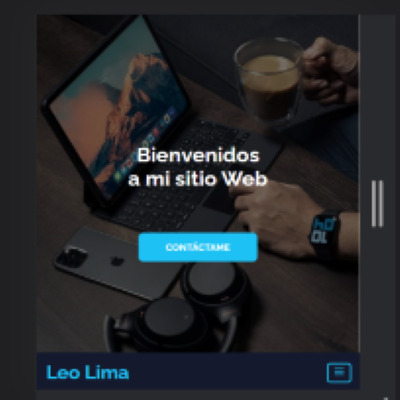
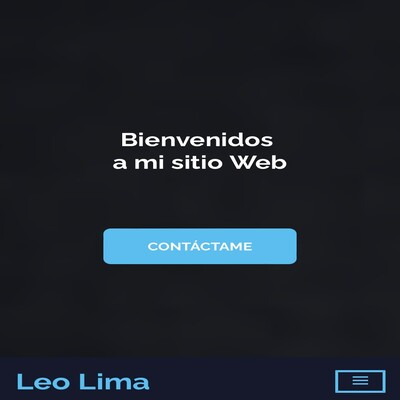
update-9/01/2023

diff --git a/portafolio-cv/index.html b/portafolio-cv/index.html
@@ -54,11 +54,11 @@
     <article class="text-lg-right">
         <aside class="text-center text-lg-right">
             <h1>Leonel Lima</h1>
-            <h5>Diseño paginas <i>web</i></h5>
+            <h5>Diseño páginas <i>web</i></h5>
         </aside>
-        <p>Experiencia en diseño de sitios <i>web,</i>  a trávez de la progrmación con HTML y CSS puro.</p>
-        <p>Orientación a el diseño <i>web (frontend)</i>  ya que es apasionente para mi  la maquetación desde cero hasta interactividad de los componentes que dan vida a las páginas <i>web y el redieño de páginas existentes. </i> </p>
-        <p>Disfruto llevar a cabo la maquetación e interactividad de interfaces <i>web,</i>  así como la optimización, para el buen posicionamiento y el rendimiento de carga de sitios <i>web</i>.</p>
+        <p>Experiencia en diseño de sitios <i>web,</i>  a través de la programación con HTML y CSS puro.</p>
+        <p>Orientación al diseño <i>web (frontend),</i> ya que es apasiónente para mí la maquetación desde cero hasta interactividad de los componentes que dan vida a las páginas <i>web y el rediseño de páginas existentes. </i> </p>
+        <p>Disfruto llevar a cabo la maquetación e interactividad de interfaces <i>web,</i>  así como la optimización, para el buen posicionamiento y el rendimiento de carga de sitios <i>web,</i>.</p>
         <div class="text-center text-lg-left">
             <a class="btn" href="https://www.linkedin.com/in/leonellimae/" target="_blank" rel="noopener">Revisa mi linkedin</a>
         </div>
@@ -71,23 +71,23 @@
         <div class="progress">
             <p>
                 <b>Desarrollo <i>Web frontend</i></b>
-                <b>90%</b>
+                <b>50%</b>
             </p>
-            <progress value="90" min="0" max="100"></progress>
+            <progress value="50" min="0" max="100"></progress>
         </div>
         <div class="progress">
             <p>
                 <b>Diseño <i>Web</i></b>
-                <b>95%</b>
+                <b>75%</b>
             </p>
-            <progress value="95" min="0" max="100"></progress>
+            <progress value="75" min="0" max="100"></progress>
         </div>
         <div class="progress">
             <p>
                 <b><i>Web</i> Hosting</b>
-                <b>0%</b>
+                <b>30%</b>
             </p>
-            <progress value="0" min="0" max="100"></progress>
+            <progress value="30" min="0" max="100"></progress>
         </div>
         <div class="progress">
             <p>
@@ -107,16 +107,16 @@
 </section>
 <section id="servicios" class="services section bg-gray-light">
     <div class="container full-lg-screen">
-        <h2 class="section-title">¿Que te ofrezco?</h2>
+        <h2 class="section-title">¿Qué te ofrezco?</h2>
         <article class="service-card">
             <svg xmlns="http://www.w3.org/2000/svg" width="24" height="24" viewBox="0 0 24 24"><path d="M20,3H4C2.897,3,2,3.897,2,5v14c0,1.103,0.897,2,2,2h16c1.103,0,2-0.897,2-2V5C22,3.897,21.103,3,20,3z M4,19V7h16 l0.002,12H4z"/><path d="M9.293 9.293L5.586 13 9.293 16.707 10.707 15.293 8.414 13 10.707 10.707zM14.707 9.293L13.293 10.707 15.586 13 13.293 15.293 14.707 16.707 18.414 13z"/></svg>
             <h3>Programación <i>Web</i></h3>
-            <p>Desarrollo sitios web Te ayudo a construir tu proyecto de principio a fin: frontend.</p>
+            <p>Desarrollo sitios web, te ayudo a construir tu proyecto de principio a fin: frontend.</p>
         </article>
         <article class="service-card">
             <svg xmlns="http://www.w3.org/2000/svg" width="24" height="24" viewBox="0 0 24 24"><path d="M20,3H7C5.897,3,5,3.897,5,5v2H4C2.897,7,2,7.897,2,9v10c0,1.103,0.897,2,2,2h6c1.103,0,2-0.897,2-2h8c1.103,0,2-0.897,2-2 V5C22,3.897,21.103,3,20,3z M6,9h4l-0.003,9H4V9H6z M12,17V9c0-1.103-0.897-2-2-2H7V5h11v12H12z"/></svg>
             <h3>Diseño<i>Web</i></h3>
-            <p>Prototipo y maqueto tus diseños estáticos y los convierto en increíbles sitios web responsivas, óptimas y accesibles. </p>
+            <p>Maqueto tus diseños estáticos y los convierto en increíbles sitios web responsivos, óptimos y accesibles. </p>
         </article>
         <article class="service-card">
             <svg xmlns="http://www.w3.org/2000/svg" width="24" height="24" viewBox="0 0 24 24"><circle cx="12" cy="20" r="2"/><circle cx="12" cy="4" r="2"/><circle cx="6.343" cy="17.657" r="2"/><circle cx="17.657" cy="6.343" r="2"/><circle cx="4" cy="12" r="2.001"/><circle cx="20" cy="12" r="2"/><circle cx="6.343" cy="6.344" r="2"/><circle cx="17.657" cy="17.658" r="2"/></svg>
@@ -131,12 +131,12 @@
         <article class="service-card">
             <svg xmlns="http://www.w3.org/2000/svg" width="24" height="24" viewBox="0 0 24 24"><path d="M16.018,3.815L15.232,8h-4.966l0.716-3.815L9.018,3.815L8.232,8H4v2h3.857l-0.751,4H3v2h3.731l-0.714,3.805l1.965,0.369 L8.766,16h4.966l-0.714,3.805l1.965,0.369L15.766,16H20v-2h-3.859l0.751-4H21V8h-3.733l0.716-3.815L16.018,3.815z M14.106,14H9.141 l0.751-4h4.966L14.106,14z"/></svg>
             <h3>SMO</h3>
-            <p>Social Media Optimiztion y Marketing de Contenidos, te ayudo a elegir los canales digitales correctos para llegar tu audiencia ideal.</p>
+            <p>Social Media Optimization y Marketing de Contenidos, te ayudo a elegir los canales digitales correctos para llegar tu audiencia ideal.</p>
         </article>
         <article class="service-card">
             <svg xmlns="http://www.w3.org/2000/svg" width="24" height="24" viewBox="0 0 24 24"><path fill="none" d="M4 15v4h16.002L20 15H4zM16 18h-2v-2h2V18zM19 18h-2v-2h2V18zM4 5v4h16.002L20 5H4zM16 8h-2V6h2V8zM19 8h-2V6h2V8z"/><path d="M20 3H4C2.897 3 2 3.897 2 5v4c0 1.103.897 2 2 2h16c1.103 0 2-.897 2-2V5C22 3.897 21.103 3 20 3zM4 9V5h16l.002 4H4zM20 13H4c-1.103 0-2 .897-2 2v4c0 1.103.897 2 2 2h16c1.103 0 2-.897 2-2v-4C22 13.897 21.103 13 20 13zM4 19v-4h16l.002 4H4z"/><path d="M17 6H19V8H17zM14 6H16V8H14zM17 16H19V18H17zM14 16H16V18H14z"/></svg>
             <h3><i>Web</i> Hosting</h3>
-            <p>¿No cuentas con dominio y hospedaje web para tu proyecto? No te preocupes yo te puedo ayudar.</p>
+            <p>¿No cuentas con dominio y hospedaje web para tu proyecto? No te preocupes, yo te puedo ayudar.</p>
         </article>
     </div>
 </section>
@@ -232,7 +232,7 @@
             <img src="assets/portfolio-2.jpg" alt="Trabajo 2">
             <div class="portfolio-info">
                 <h3>Estudio Bad dog</h3>
-                <p>Simulación de un estudio que muestra sus distintos servicios en páginas independientes</p>
+                <p>Simulación de un estudio que muestra sus distintos servicios en páginas independientes.</p>
                 <aside class="portfolio-details">
                     <small><b>CLIENTE:</b></small>
                     <small>Nombre del cliente</small>
@@ -402,7 +402,7 @@
                     <path d="M18.5 7.3125L7 16.8125V27C7 27.5625 7.4375 28 8 28H15C15.5 28 15.9375 27.5625 15.9375 27V21C15.9375 20.5 16.4375 20 16.9375 20H20.9375C21.5 20 21.9375 20.5 21.9375 21V27C21.9375 27.5625 22.4375 28 22.9375 28H30C30.5 28 31 27.5625 31 27V16.75L19.4375 7.3125C19.3125 7.1875 19.125 7.125 19 7.125C18.8125 7.125 18.625 7.1875 18.5 7.3125ZM36.6875 13.75L31.5 9.4375V0.8125C31.5 0.375 31.125 0.0625 30.75 0.0625H27.25C26.8125 0.0625 26.5 0.375 26.5 0.8125V5.3125L20.875 0.6875C20.375 0.3125 19.6875 0.0625 19 0.0625C18.25 0.0625 17.5625 0.3125 17.0625 0.6875L1.25 13.75C1.0625 13.875 0.9375 14.125 0.9375 14.3125C0.9375 14.5 1.0625 14.6875 1.125 14.8125L2.75 16.75C2.875 16.9375 3.0625 17 3.3125 17C3.5 17 3.6875 16.9375 3.8125 16.8125L18.5 4.75C18.625 4.625 18.8125 4.5625 19 4.5625C19.125 4.5625 19.3125 4.625 19.4375 4.75L34.125 16.8125C34.25 16.9375 34.4375 17 34.625 17C34.875 17 35.0625 16.9375 35.1875 16.75L36.8125 14.8125C36.9375 14.6875 37 14.5 37 14.3125C37 14.125 36.875 13.875 36.6875 13.75Z"/>
                 </svg>
                 <h5>Ubicación</h5>
-                <small><i>Tlaltenango</i>, Puebla</small>
+                <small><i>Puebla</i>, México.</small>
             </aside>
             <aside class="contact-card box-shadow-1">
                 <svg width="33" height="32" viewBox="0 0 33 32" fill="none" xmlns="http://www.w3.org/2000/svg">
@@ -416,7 +416,7 @@
                 <svg class="color" width="32" height="24" viewBox="0 0 32 24" fill="none" xmlns="http://www.w3.org/2000/svg">
                     <path d="M31.375 7.9375C29.9375 9.0625 28.125 10.4375 21.75 15.0625C20.5 16 18.1875 18.0625 16 18.0625C13.75 18.0625 11.5 16 10.1875 15.0625C3.8125 10.4375 2 9.0625 0.5625 7.9375C0.3125 7.75 0 7.9375 0 8.25V21C0 22.6875 1.3125 24 3 24H29C30.625 24 32 22.6875 32 21V8.25C32 7.9375 31.625 7.75 31.375 7.9375ZM16 16C17.4375 16.0625 19.5 14.1875 20.5625 13.4375C28.875 7.4375 29.5 6.875 31.375 5.375C31.75 5.125 32 4.6875 32 4.1875V3C32 1.375 30.625 0 29 0H3C1.3125 0 0 1.375 0 3V4.1875C0 4.6875 0.1875 5.125 0.5625 5.375C2.4375 6.875 3.0625 7.4375 11.375 13.4375C12.4375 14.1875 14.5 16.0625 16 16Z"/>
                     </svg>                    
-                <h5>Email</h5>
+                <h5>E-mail</h5>
                 <small><a href="mailto:Leonel.limae@hotmail.com">Leonel.limae@hotmail.com</a></small>
             </aside>
             <aside class="contact-card box-shadow-1">
@@ -441,7 +441,7 @@
         <form class="contact-form box-shadow-1">
             <input type="text" name="Nombre" placeholder="Ingresa tu nombre*" title="Nombre solo acepta letras y espacios en blanco" pattern="^[A-Za-zÑñÁáÉéÍíÓóÚúÜü\s]+$" required>
             <input type="email" name="email" placeholder="Ingresa tu correo*" title="Email incorrecto" pattern="^[a-z0-9]+(\.[_a-z0-9]+)*@[a-z0-9-]+(\.[a-z0-9-]+)*(\.[a-z]{2,15})$" required>
-            <textarea name="comments" cols="50" rows="10" placeholder="Dejame tus comentarios*" required></textarea>
+            <textarea name="comments" cols="50" rows="10" placeholder="Déjame tus comentarios*" required></textarea>
             <div class="contact-form-loader text-center none">
                 <img src="assets/loader.svg" alt="Enviando">
             </div>

diff --git a/portafolio-cv/style.css b/portafolio-cv/style.css
@@ -473,7 +473,7 @@ progress::-moz-progress-bar{
 }
 
 .gray-scale{
-    filter: grayscale(.2);
+    filter: grayscale(.9);
     border-radius: 3%;
 }
 
